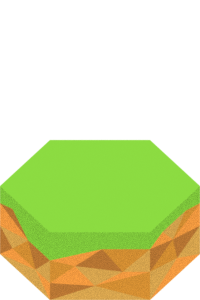
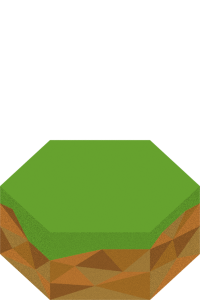
Added Water, Dynamic tile loading and new graphics

diff --git a/Frontend/js/main.js b/Frontend/js/main.js
@@ -102,10 +102,57 @@ const store = new Vuex.Store({
         deltaTime: 0,
         windowWidth: window.innerWidth,
         windowHeight: window.innerHeight,
+
     },
     getters: {
         menuDisplay: state => {
             return state.menuVisible == true ? "block" : "none";
+        },
+        dispayedMapTiles: state => {
+
+            
+            //TODO calculate this only after big changes in offset or scale
+            var xFactor = Math.SQRT2 * 3/4;                     // 3/4 comes from the geometry of stacking Hexagons
+            var yFactor = Math.SQRT2 * 3/4 / Math.sqrt(3)       // sqrt(3) is also from the geometry
+                        * Math.cos((57.8) / 180 * Math.PI);     // the angle is from the Graphics
+            
+            var imageWidth = 400;
+            var imageHeight = 600;
+            var angle = -45 * Math.PI / 180;
+
+            //Position the center would be if there wasnt any Rotation
+            var centerX = (-state.mapOffset.x) / (imageWidth) / xFactor;
+            var centerY = (-state.mapOffset.y) / (imageHeight) / yFactor;
+            
+            //Actual center Position (Coordinates of center tile)
+            var centerXrot = Math.round(centerX * Math.cos(angle) - centerY * Math.sin(angle));
+            var centerYrot = Math.round(-centerY * Math.cos(angle) - centerX * Math.sin(angle));
+
+            var displaySize = 10; //TODO Change this dynamicaly
+            var displayedTiles = [];
+            for(let x = centerXrot - displaySize; x <= centerXrot + displaySize; x+=1)
+            {
+                for(let y = centerYrot + displaySize; y >= centerYrot - displaySize; y-=1)
+                {
+                    if(!state.mapTiles.some(tile => {
+                        if(tile.position.x ==  x &&  tile.position.y == y)
+                        {
+                            //if tile is found add to displayed tiles
+                            displayedTiles.push(tile);
+                            return true;
+                        }
+                        return false;
+                    }))
+                            //Otherwise Add water
+                    {
+                        displayedTiles.push({position: {x: x,y: y,z: 1}, type: "water", orientation: "East"})
+                    }
+                }
+            }
+
+
+            return displayedTiles;
+            
         }
     },
     actions: {

diff --git a/Frontend/js/components/map_tile.vue b/Frontend/js/components/map_tile.vue
@@ -120,7 +120,9 @@ export default {
                 // Add Offsets
                 + this.mapOffset.x * this.mapScale
                 // move the Origin to the middle of the screen (Probably not needed when the game is further in development)
-                + this.windowWidth/2;
+                + this.windowWidth / 2
+                 // move reference point to center of image
+                - this.width / 2 ;
         },
         ypos() {
             return this.width //use the (current) width to scale the vetor
@@ -133,7 +135,9 @@ export default {
                 // Add Offset
                 + this.mapOffset.y * this.mapScale
                 // move the Origin to the middle of the screen (Probably not needed when the game is further in development)
-                + this.windowHeight/2;
+                + this.windowHeight / 2
+                // move reference point to center of image
+                - this.height / 2;
         },
         windowWidth() {
             return this.$store.state.windowWidth;
@@ -155,6 +159,8 @@ export default {
         },
         imgsrc() { 
             //Hardcoded for testing
+            if(this.tile.type == "water")
+                return "images/hextiles/water_E.png";
             return "images/hextiles/grasstile_E.png";
 
 

diff --git a/Frontend/js/components/map.vue b/Frontend/js/components/map.vue
@@ -49,7 +49,7 @@
         },
         computed: {
             tiles() { 
-                return this.$store.state.mapTiles;
+                return this.$store.getters.dispayedMapTiles;
             },
             TilesArray () {
                 var ls = [[]];
